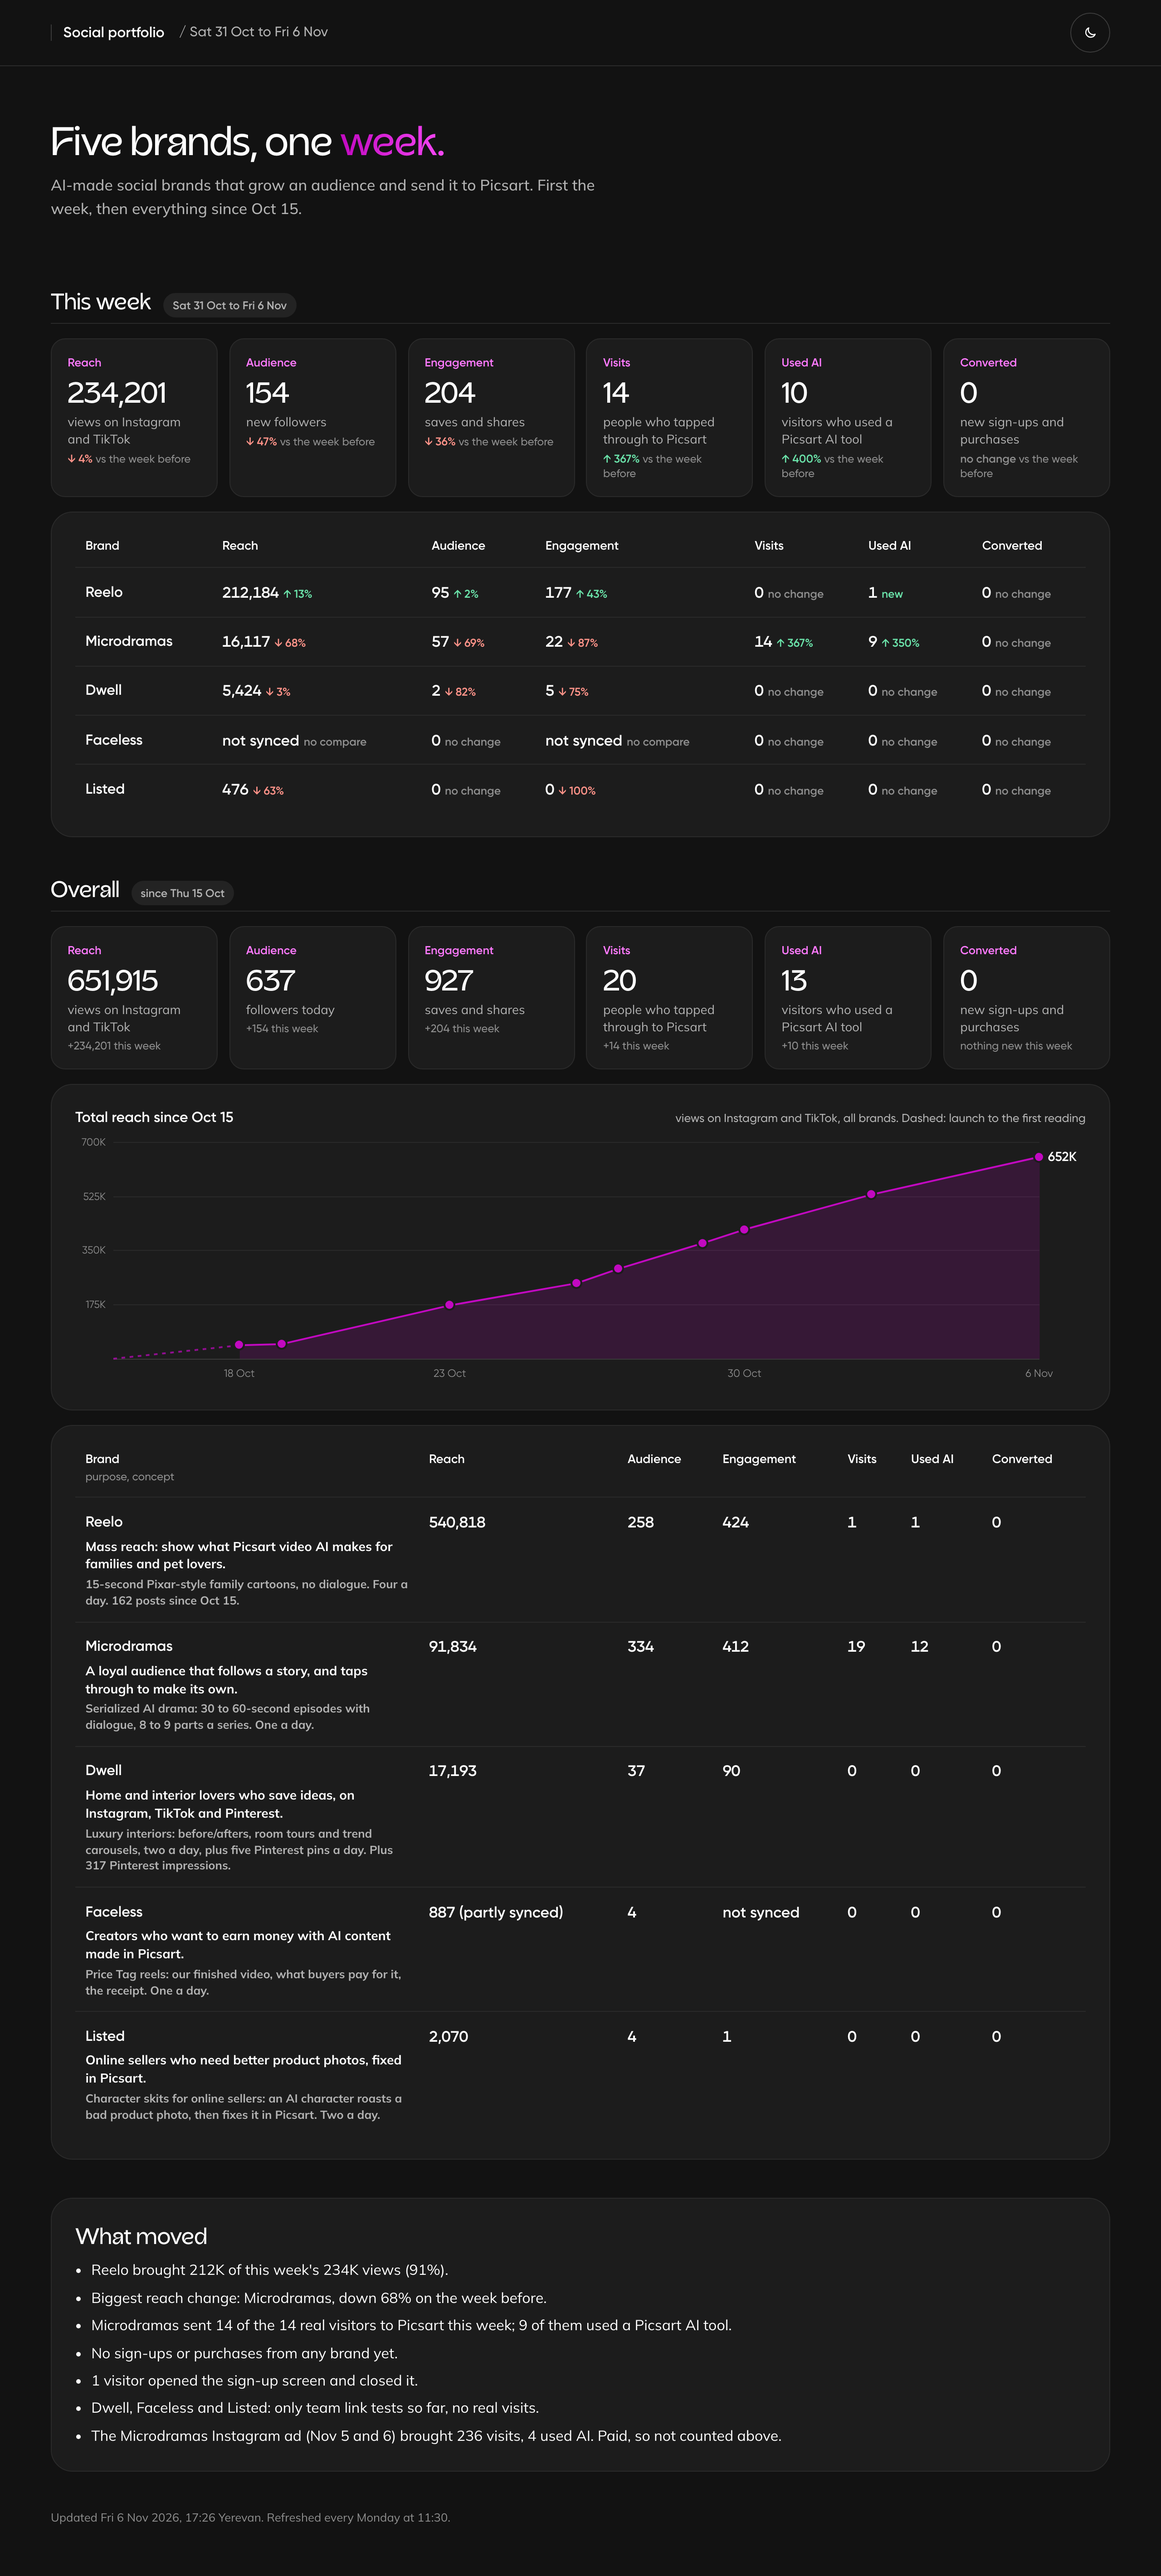
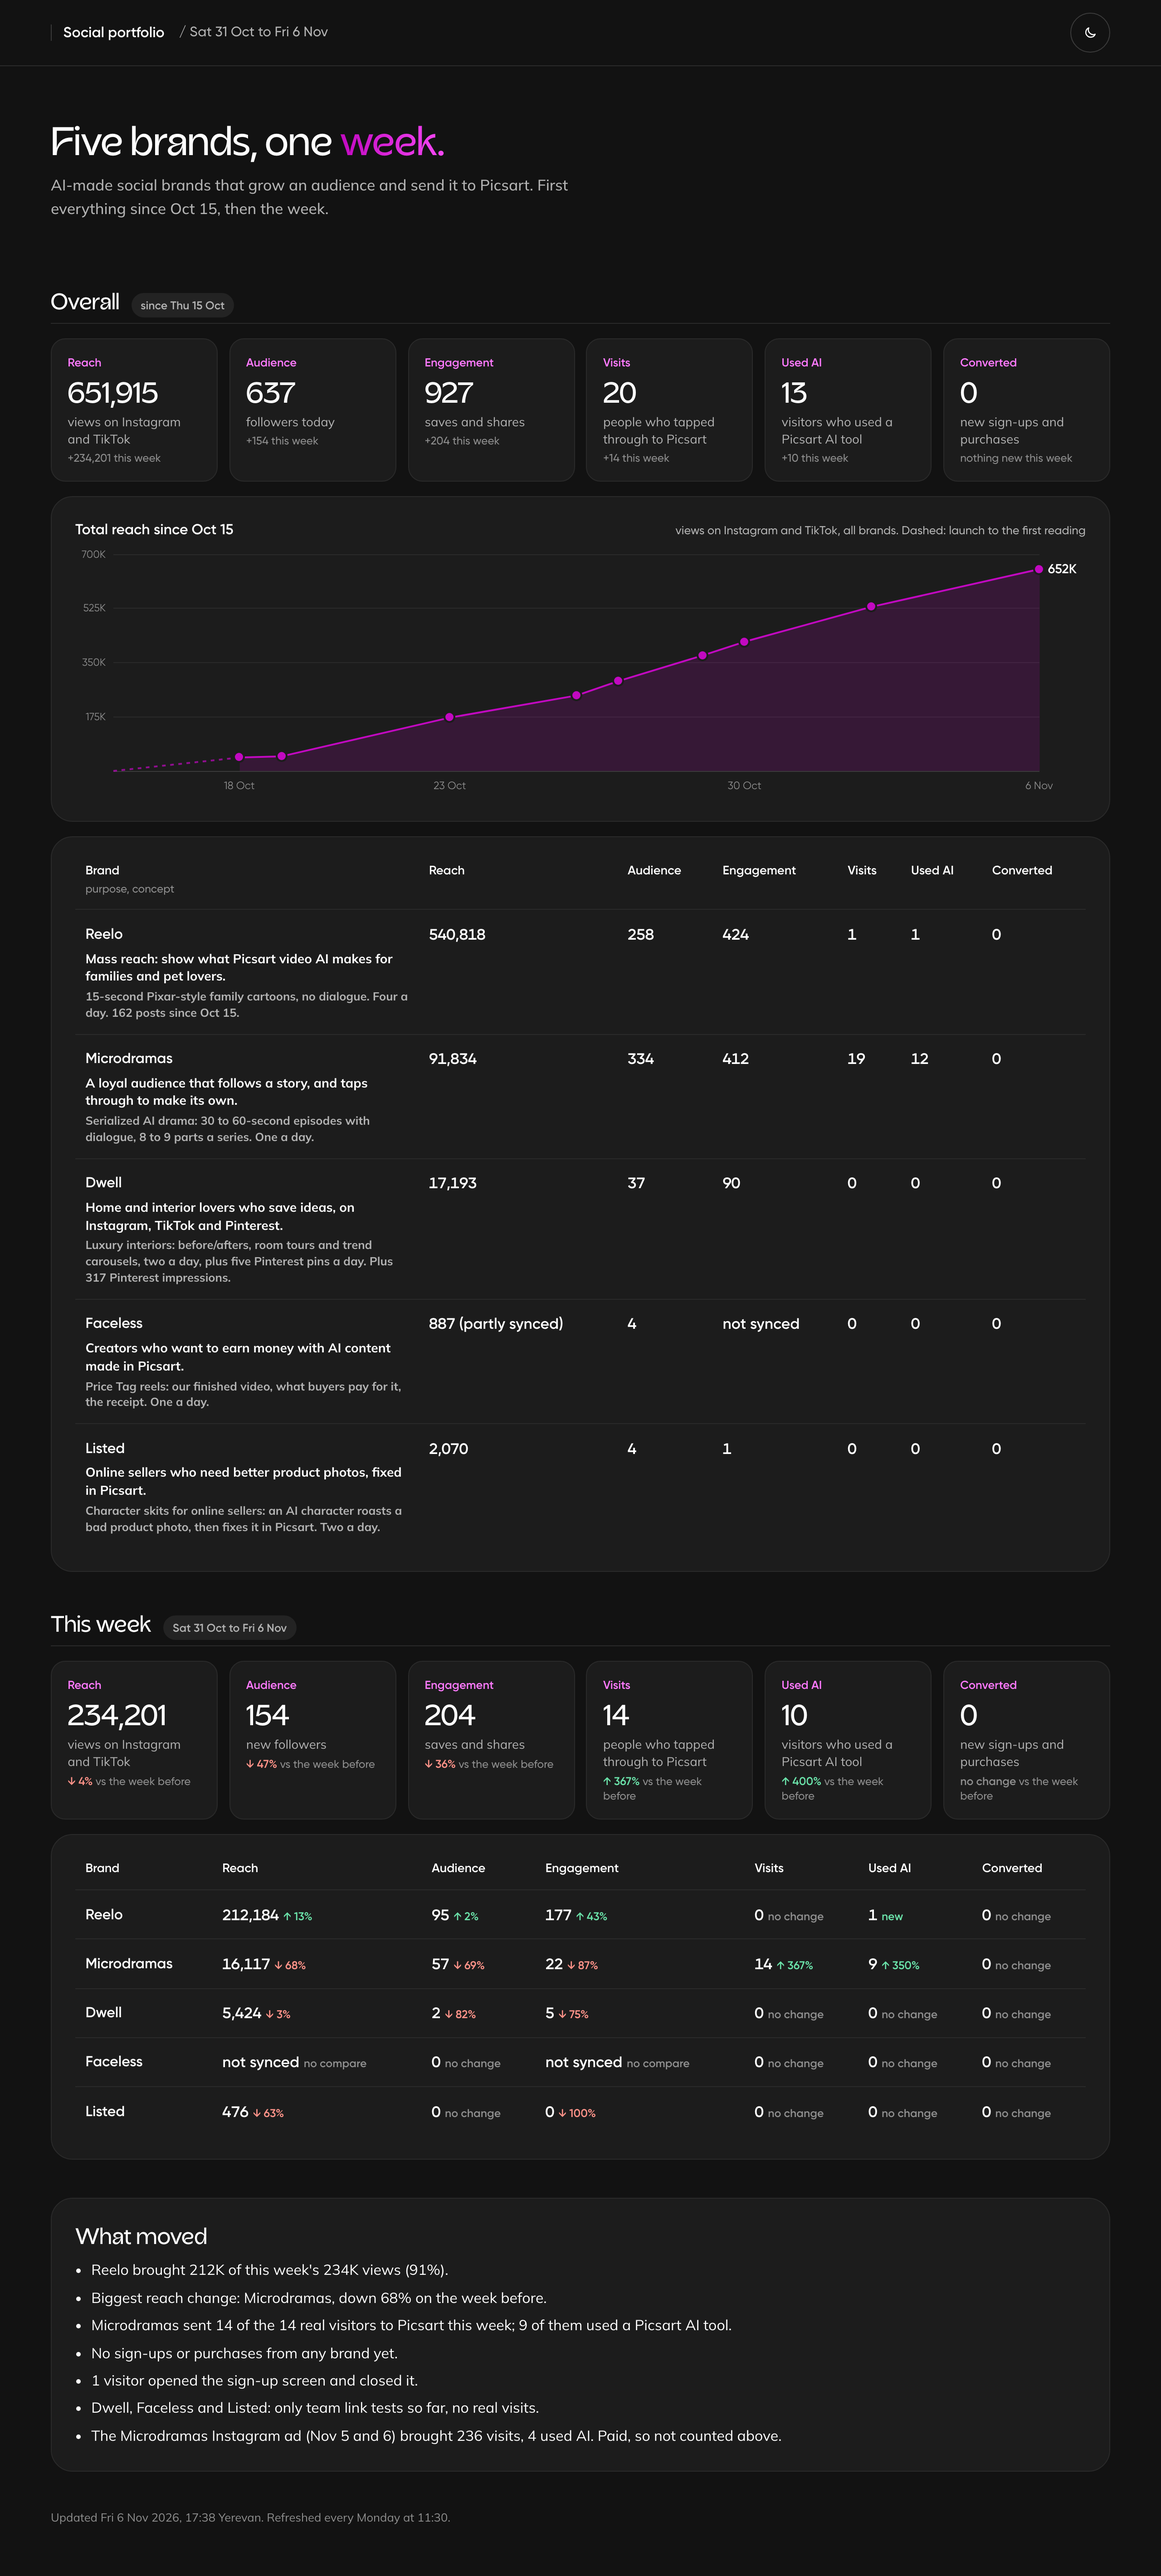
chore(portfolio): weekly refresh 2026-11-06

diff --git a/portfolio/index.html b/portfolio/index.html
@@ -105,19 +105,8 @@ small { display: block; color: var(--faint); font-family: var(--ui); font-weight
 <main class="wrap" id="main">
   <div class="page-head">
     <h1>Five brands, one <span class="g">week.</span></h1>
-    <p class="dek">AI-made social brands that grow an audience and send it to Picsart. First the week, then everything since Oct 15.</p>
+    <p class="dek">AI-made social brands that grow an audience and send it to Picsart. First everything since Oct 15, then the week.</p>
   </div>
-
-  <section class="sec" aria-labelledby="w-h">
-    <div class="sec-head"><h2 id="w-h">This week</h2><span class="pill">Sat 31 Oct to Fri 6 Nov</span></div>
-    <div class="stats"><div class="stat"><span class="cls">Reach</span><b>234,201</b><span>views on Instagram and TikTok</span><small><span class="wow down">&darr; 4%</span> vs the week before</small></div><div class="stat"><span class="cls">Audience</span><b>154</b><span>new followers</span><small><span class="wow down">&darr; 47%</span> vs the week before</small></div><div class="stat"><span class="cls">Engagement</span><b>204</b><span>saves and shares</span><small><span class="wow down">&darr; 36%</span> vs the week before</small></div><div class="stat"><span class="cls">Visits</span><b>14</b><span>people who tapped through to Picsart</span><small><span class="wow up">&uarr; 367%</span> vs the week before</small></div><div class="stat"><span class="cls">Used AI</span><b>10</b><span>visitors who used a Picsart AI tool</span><small><span class="wow up">&uarr; 400%</span> vs the week before</small></div><div class="stat"><span class="cls">Converted</span><b>0</b><span>new sign-ups and purchases</span><small><span class="wow">no change</span> vs the week before</small></div></div>
-    <div class="panel tbl">
-      <table class="pf pf-week">
-        <thead><tr><th scope="col">Brand</th><th scope="col">Reach</th><th scope="col">Audience</th><th scope="col">Engagement</th><th scope="col">Visits</th><th scope="col">Used AI</th><th scope="col">Converted</th></tr></thead>
-        <tbody><tr><th scope="row"><span class="bn">Reelo</span></th><td data-label="Reach"><b class="n">212,184</b><span class="wow up">&uarr; 13%</span></td><td data-label="Audience"><b class="n">95</b><span class="wow up">&uarr; 2%</span></td><td data-label="Engagement"><b class="n">177</b><span class="wow up">&uarr; 43%</span></td><td data-label="Visits"><b class="n">0</b><span class="wow">no change</span></td><td data-label="Used AI"><b class="n">1</b><span class="wow up">new</span></td><td data-label="Converted"><b class="n">0</b><span class="wow">no change</span></td></tr><tr><th scope="row"><span class="bn">Microdramas</span></th><td data-label="Reach"><b class="n">16,117</b><span class="wow down">&darr; 68%</span></td><td data-label="Audience"><b class="n">57</b><span class="wow down">&darr; 69%</span></td><td data-label="Engagement"><b class="n">22</b><span class="wow down">&darr; 87%</span></td><td data-label="Visits"><b class="n">14</b><span class="wow up">&uarr; 367%</span></td><td data-label="Used AI"><b class="n">9</b><span class="wow up">&uarr; 350%</span></td><td data-label="Converted"><b class="n">0</b><span class="wow">no change</span></td></tr><tr><th scope="row"><span class="bn">Dwell</span></th><td data-label="Reach"><b class="n">5,424</b><span class="wow down">&darr; 3%</span></td><td data-label="Audience"><b class="n">2</b><span class="wow down">&darr; 82%</span></td><td data-label="Engagement"><b class="n">5</b><span class="wow down">&darr; 75%</span></td><td data-label="Visits"><b class="n">0</b><span class="wow">no change</span></td><td data-label="Used AI"><b class="n">0</b><span class="wow">no change</span></td><td data-label="Converted"><b class="n">0</b><span class="wow">no change</span></td></tr><tr><th scope="row"><span class="bn">Faceless</span></th><td data-label="Reach"><b class="n">not synced</b><span class="wow">no compare</span></td><td data-label="Audience"><b class="n">0</b><span class="wow">no change</span></td><td data-label="Engagement"><b class="n">not synced</b><span class="wow">no compare</span></td><td data-label="Visits"><b class="n">0</b><span class="wow">no change</span></td><td data-label="Used AI"><b class="n">0</b><span class="wow">no change</span></td><td data-label="Converted"><b class="n">0</b><span class="wow">no change</span></td></tr><tr><th scope="row"><span class="bn">Listed</span></th><td data-label="Reach"><b class="n">476</b><span class="wow down">&darr; 63%</span></td><td data-label="Audience"><b class="n">0</b><span class="wow">no change</span></td><td data-label="Engagement"><b class="n">0</b><span class="wow down">&darr; 100%</span></td><td data-label="Visits"><b class="n">0</b><span class="wow">no change</span></td><td data-label="Used AI"><b class="n">0</b><span class="wow">no change</span></td><td data-label="Converted"><b class="n">0</b><span class="wow">no change</span></td></tr></tbody>
-      </table>
-    </div>
-  </section>
 
   <section class="sec" aria-labelledby="o-h">
     <div class="sec-head"><h2 id="o-h">Overall</h2><span class="pill">since Thu 15 Oct</span></div>
@@ -134,9 +123,20 @@ small { display: block; color: var(--faint); font-family: var(--ui); font-weight
     </div>
   </section>
 
+  <section class="sec" aria-labelledby="w-h">
+    <div class="sec-head"><h2 id="w-h">This week</h2><span class="pill">Sat 31 Oct to Fri 6 Nov</span></div>
+    <div class="stats"><div class="stat"><span class="cls">Reach</span><b>234,201</b><span>views on Instagram and TikTok</span><small><span class="wow down">&darr; 4%</span> vs the week before</small></div><div class="stat"><span class="cls">Audience</span><b>154</b><span>new followers</span><small><span class="wow down">&darr; 47%</span> vs the week before</small></div><div class="stat"><span class="cls">Engagement</span><b>204</b><span>saves and shares</span><small><span class="wow down">&darr; 36%</span> vs the week before</small></div><div class="stat"><span class="cls">Visits</span><b>14</b><span>people who tapped through to Picsart</span><small><span class="wow up">&uarr; 367%</span> vs the week before</small></div><div class="stat"><span class="cls">Used AI</span><b>10</b><span>visitors who used a Picsart AI tool</span><small><span class="wow up">&uarr; 400%</span> vs the week before</small></div><div class="stat"><span class="cls">Converted</span><b>0</b><span>new sign-ups and purchases</span><small><span class="wow">no change</span> vs the week before</small></div></div>
+    <div class="panel tbl">
+      <table class="pf pf-week">
+        <thead><tr><th scope="col">Brand</th><th scope="col">Reach</th><th scope="col">Audience</th><th scope="col">Engagement</th><th scope="col">Visits</th><th scope="col">Used AI</th><th scope="col">Converted</th></tr></thead>
+        <tbody><tr><th scope="row"><span class="bn">Reelo</span></th><td data-label="Reach"><b class="n">212,184</b><span class="wow up">&uarr; 13%</span></td><td data-label="Audience"><b class="n">95</b><span class="wow up">&uarr; 2%</span></td><td data-label="Engagement"><b class="n">177</b><span class="wow up">&uarr; 43%</span></td><td data-label="Visits"><b class="n">0</b><span class="wow">no change</span></td><td data-label="Used AI"><b class="n">1</b><span class="wow up">new</span></td><td data-label="Converted"><b class="n">0</b><span class="wow">no change</span></td></tr><tr><th scope="row"><span class="bn">Microdramas</span></th><td data-label="Reach"><b class="n">16,117</b><span class="wow down">&darr; 68%</span></td><td data-label="Audience"><b class="n">57</b><span class="wow down">&darr; 69%</span></td><td data-label="Engagement"><b class="n">22</b><span class="wow down">&darr; 87%</span></td><td data-label="Visits"><b class="n">14</b><span class="wow up">&uarr; 367%</span></td><td data-label="Used AI"><b class="n">9</b><span class="wow up">&uarr; 350%</span></td><td data-label="Converted"><b class="n">0</b><span class="wow">no change</span></td></tr><tr><th scope="row"><span class="bn">Dwell</span></th><td data-label="Reach"><b class="n">5,424</b><span class="wow down">&darr; 3%</span></td><td data-label="Audience"><b class="n">2</b><span class="wow down">&darr; 82%</span></td><td data-label="Engagement"><b class="n">5</b><span class="wow down">&darr; 75%</span></td><td data-label="Visits"><b class="n">0</b><span class="wow">no change</span></td><td data-label="Used AI"><b class="n">0</b><span class="wow">no change</span></td><td data-label="Converted"><b class="n">0</b><span class="wow">no change</span></td></tr><tr><th scope="row"><span class="bn">Faceless</span></th><td data-label="Reach"><b class="n">not synced</b><span class="wow">no compare</span></td><td data-label="Audience"><b class="n">0</b><span class="wow">no change</span></td><td data-label="Engagement"><b class="n">not synced</b><span class="wow">no compare</span></td><td data-label="Visits"><b class="n">0</b><span class="wow">no change</span></td><td data-label="Used AI"><b class="n">0</b><span class="wow">no change</span></td><td data-label="Converted"><b class="n">0</b><span class="wow">no change</span></td></tr><tr><th scope="row"><span class="bn">Listed</span></th><td data-label="Reach"><b class="n">476</b><span class="wow down">&darr; 63%</span></td><td data-label="Audience"><b class="n">0</b><span class="wow">no change</span></td><td data-label="Engagement"><b class="n">0</b><span class="wow down">&darr; 100%</span></td><td data-label="Visits"><b class="n">0</b><span class="wow">no change</span></td><td data-label="Used AI"><b class="n">0</b><span class="wow">no change</span></td><td data-label="Converted"><b class="n">0</b><span class="wow">no change</span></td></tr></tbody>
+      </table>
+    </div>
+  </section>
+
   <section class="panel moved" aria-labelledby="m-h"><h2 id="m-h">What moved</h2><ul><li>Reelo brought 212K of this week&#x27;s 234K views (91%).</li><li>Biggest reach change: Microdramas, down 68% on the week before.</li><li>Microdramas sent 14 of the 14 real visitors to Picsart this week; 9 of them used a Picsart AI tool.</li><li>No sign-ups or purchases from any brand yet.</li><li>1 visitor opened the sign-up screen and closed it.</li><li>Dwell, Faceless and Listed: only team link tests so far, no real visits.</li><li>The Microdramas Instagram ad (Nov 5 and 6) brought 236 visits, 4 used AI. Paid, so not counted above.</li></ul></section>
   <footer class="foot">
-    <p>Updated Fri 6 Nov 2026, 17:26 Yerevan. Refreshed every Monday at 11:30.</p>
+    <p>Updated Fri 6 Nov 2026, 17:38 Yerevan. Refreshed every Monday at 11:30.</p>
   </footer>
 </main>
 <script>

diff --git a/build_portfolio.py b/build_portfolio.py
@@ -5,7 +5,7 @@ reach to conversion, with one chart of total reach over the whole run.
 
 Tigran's brief (2026-11-06): one short page as a portfolio, each brand with its purpose and concept, current numbers,
 updated and shared every week: overall numbers, week-over-week change, impressions and conversions in the product.
-Vilya (2026-11-06): week and overall as separate sections, one chart of overall reach (impressions), refreshed every Monday at 11:30.
+Vilya (2026-11-06): overall first, then the week, as separate sections (Tigran's order), one chart of overall reach (impressions), refreshed every Monday at 11:30.
 
 Numbers come from two places:
   reach, audience, engagement   the refreshed brand report (summary/<brand>/index.html via build_exec.brand_numbers).
@@ -350,19 +350,8 @@ def build(day: date) -> str:
 <main class="wrap" id="main">
   <div class="page-head">
     <h1>Five brands, one <span class="g">week.</span></h1>
-    <p class="dek">AI-made social brands that grow an audience and send it to Picsart. First the week, then everything since Oct 15.</p>
+    <p class="dek">AI-made social brands that grow an audience and send it to Picsart. First everything since Oct 15, then the week.</p>
   </div>
-
-  <section class="sec" aria-labelledby="w-h">
-    <div class="sec-head"><h2 id="w-h">This week</h2><span class="pill">{nice(start)} to {nice(end)}</span></div>
-    <div class="stats">{week_stats}</div>
-    <div class="panel tbl">
-      <table class="pf pf-week">
-        <thead><tr><th scope="col">Brand</th>{heads}</tr></thead>
-        <tbody>{"".join(week_rows)}</tbody>
-      </table>
-    </div>
-  </section>
 
   <section class="sec" aria-labelledby="o-h">
     <div class="sec-head"><h2 id="o-h">Overall</h2><span class="pill">since Thu 15 Oct</span></div>
@@ -375,6 +364,17 @@ def build(day: date) -> str:
       <table class="pf pf-all">
         <thead><tr><th scope="col">Brand<small>purpose, concept</small></th>{heads}</tr></thead>
         <tbody>{"".join(all_rows)}</tbody>
+      </table>
+    </div>
+  </section>
+
+  <section class="sec" aria-labelledby="w-h">
+    <div class="sec-head"><h2 id="w-h">This week</h2><span class="pill">{nice(start)} to {nice(end)}</span></div>
+    <div class="stats">{week_stats}</div>
+    <div class="panel tbl">
+      <table class="pf pf-week">
+        <thead><tr><th scope="col">Brand</th>{heads}</tr></thead>
+        <tbody>{"".join(week_rows)}</tbody>
       </table>
     </div>
   </section>
